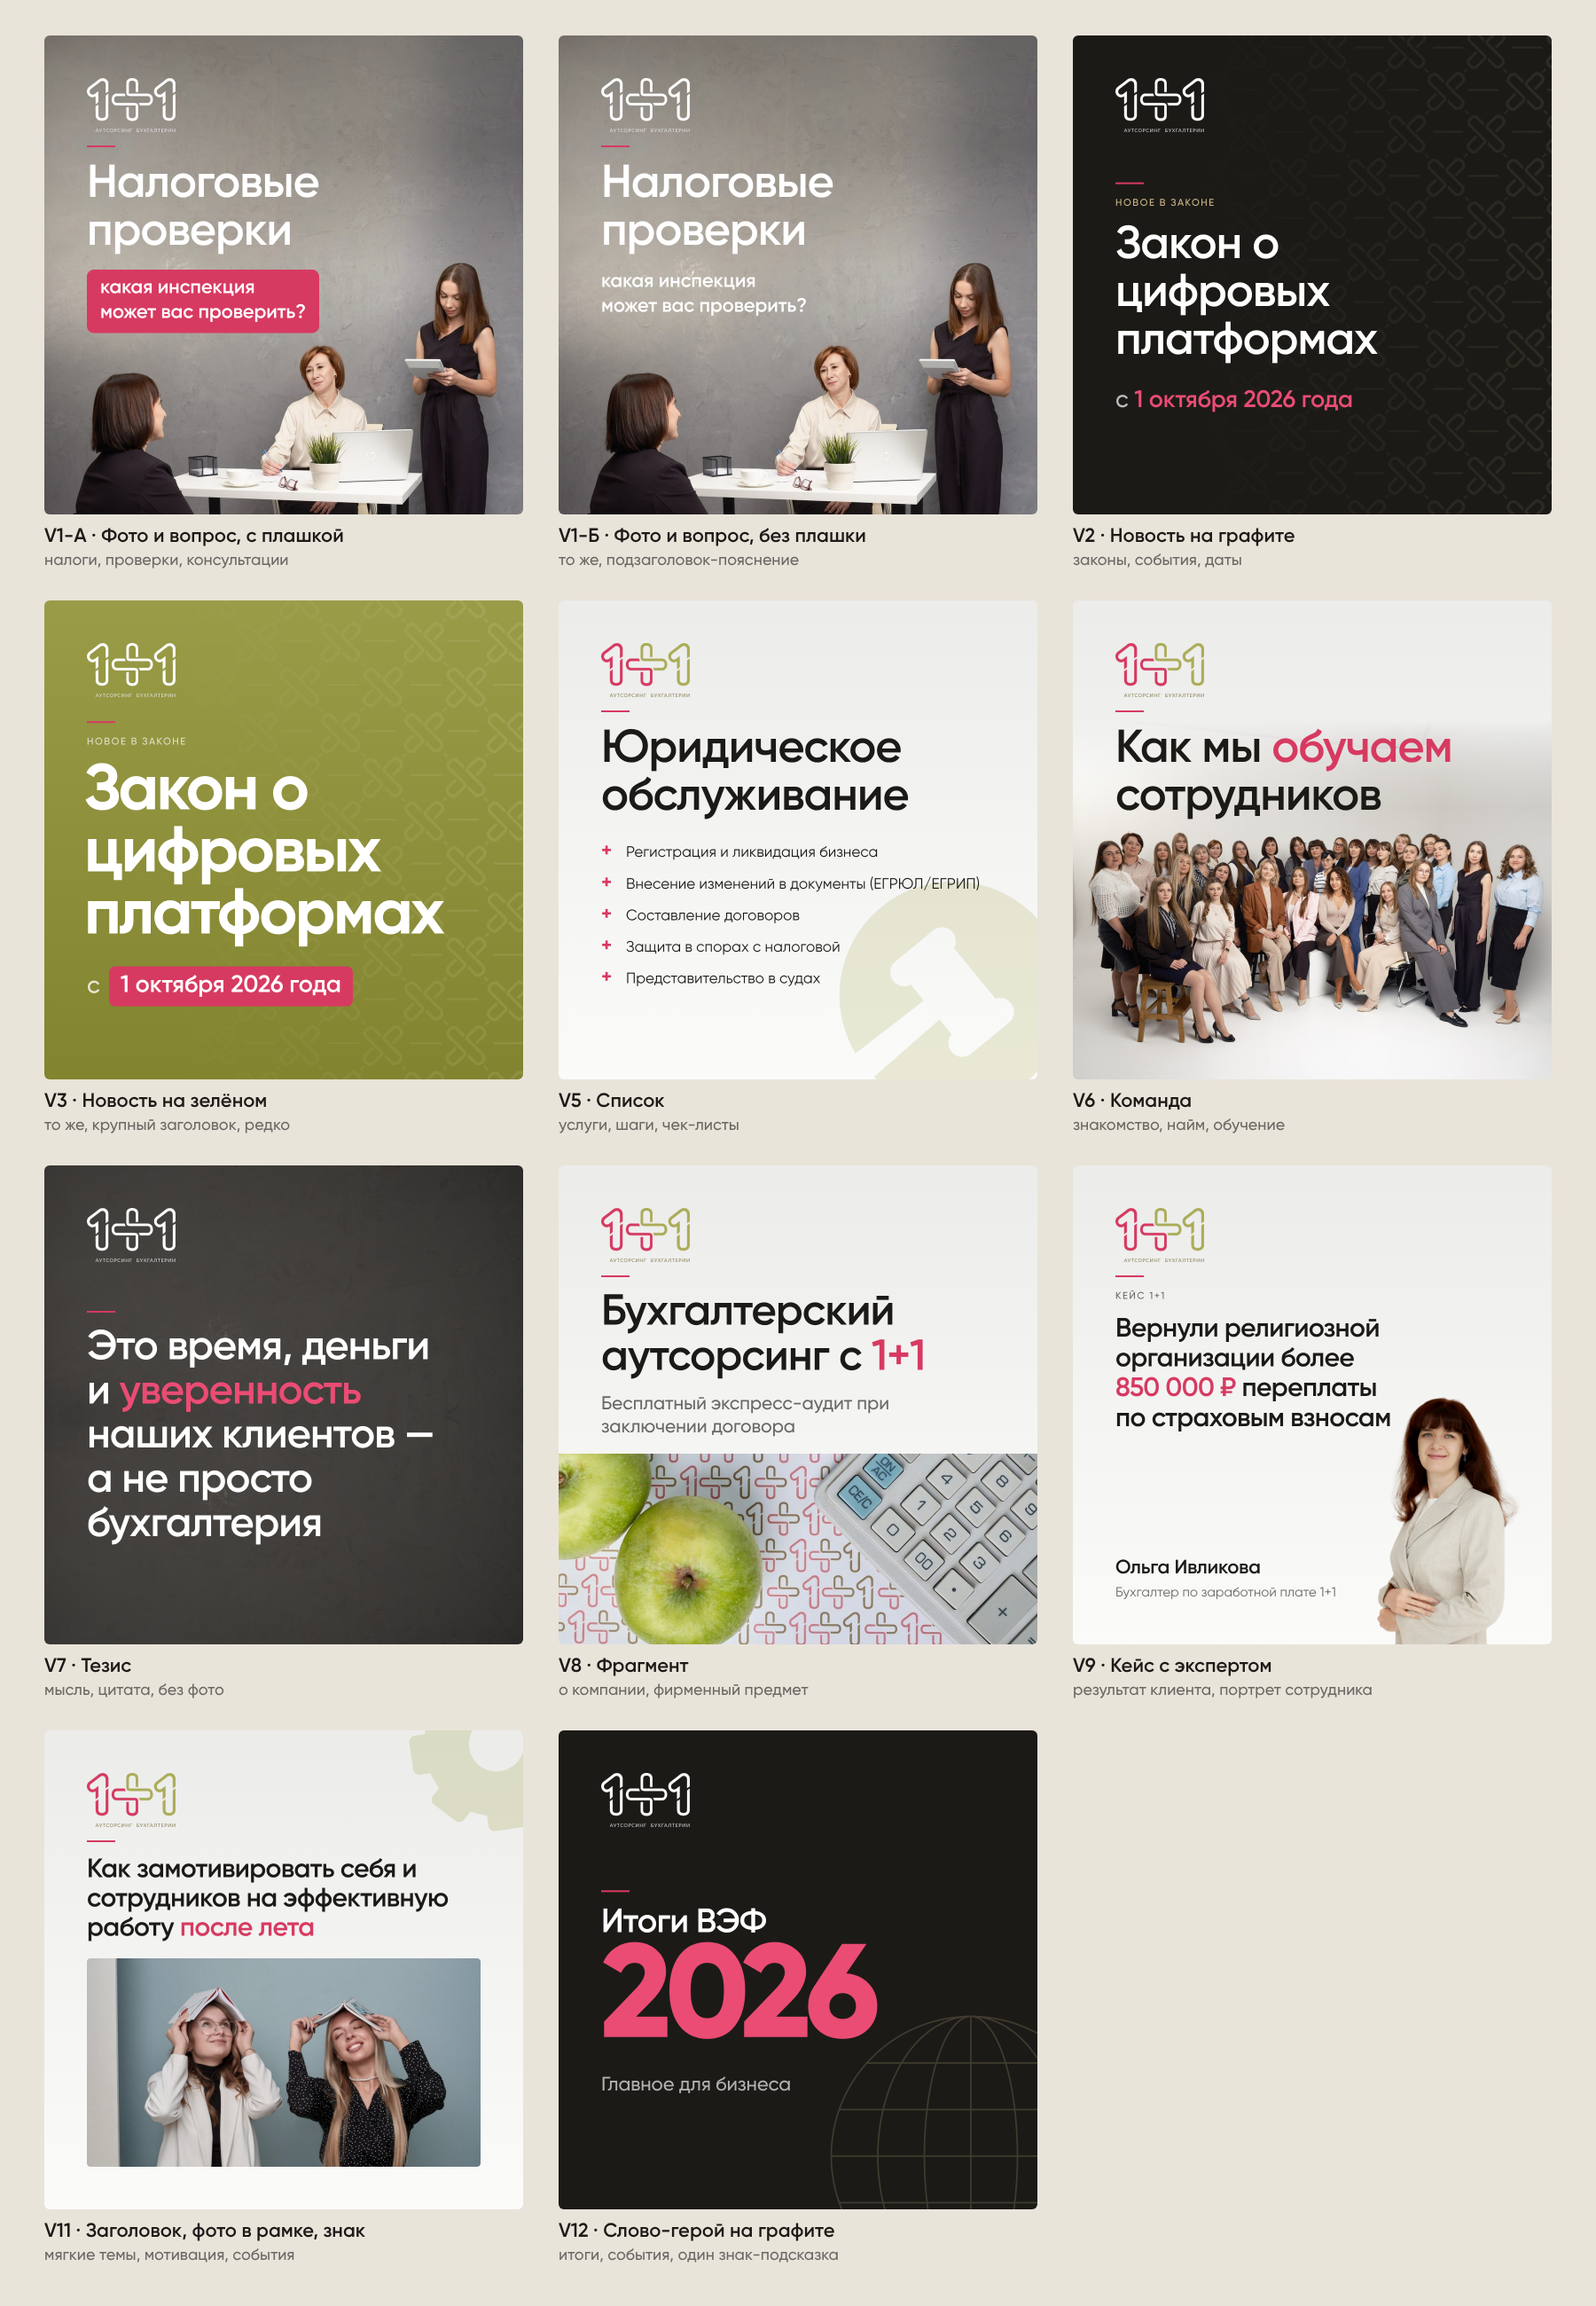
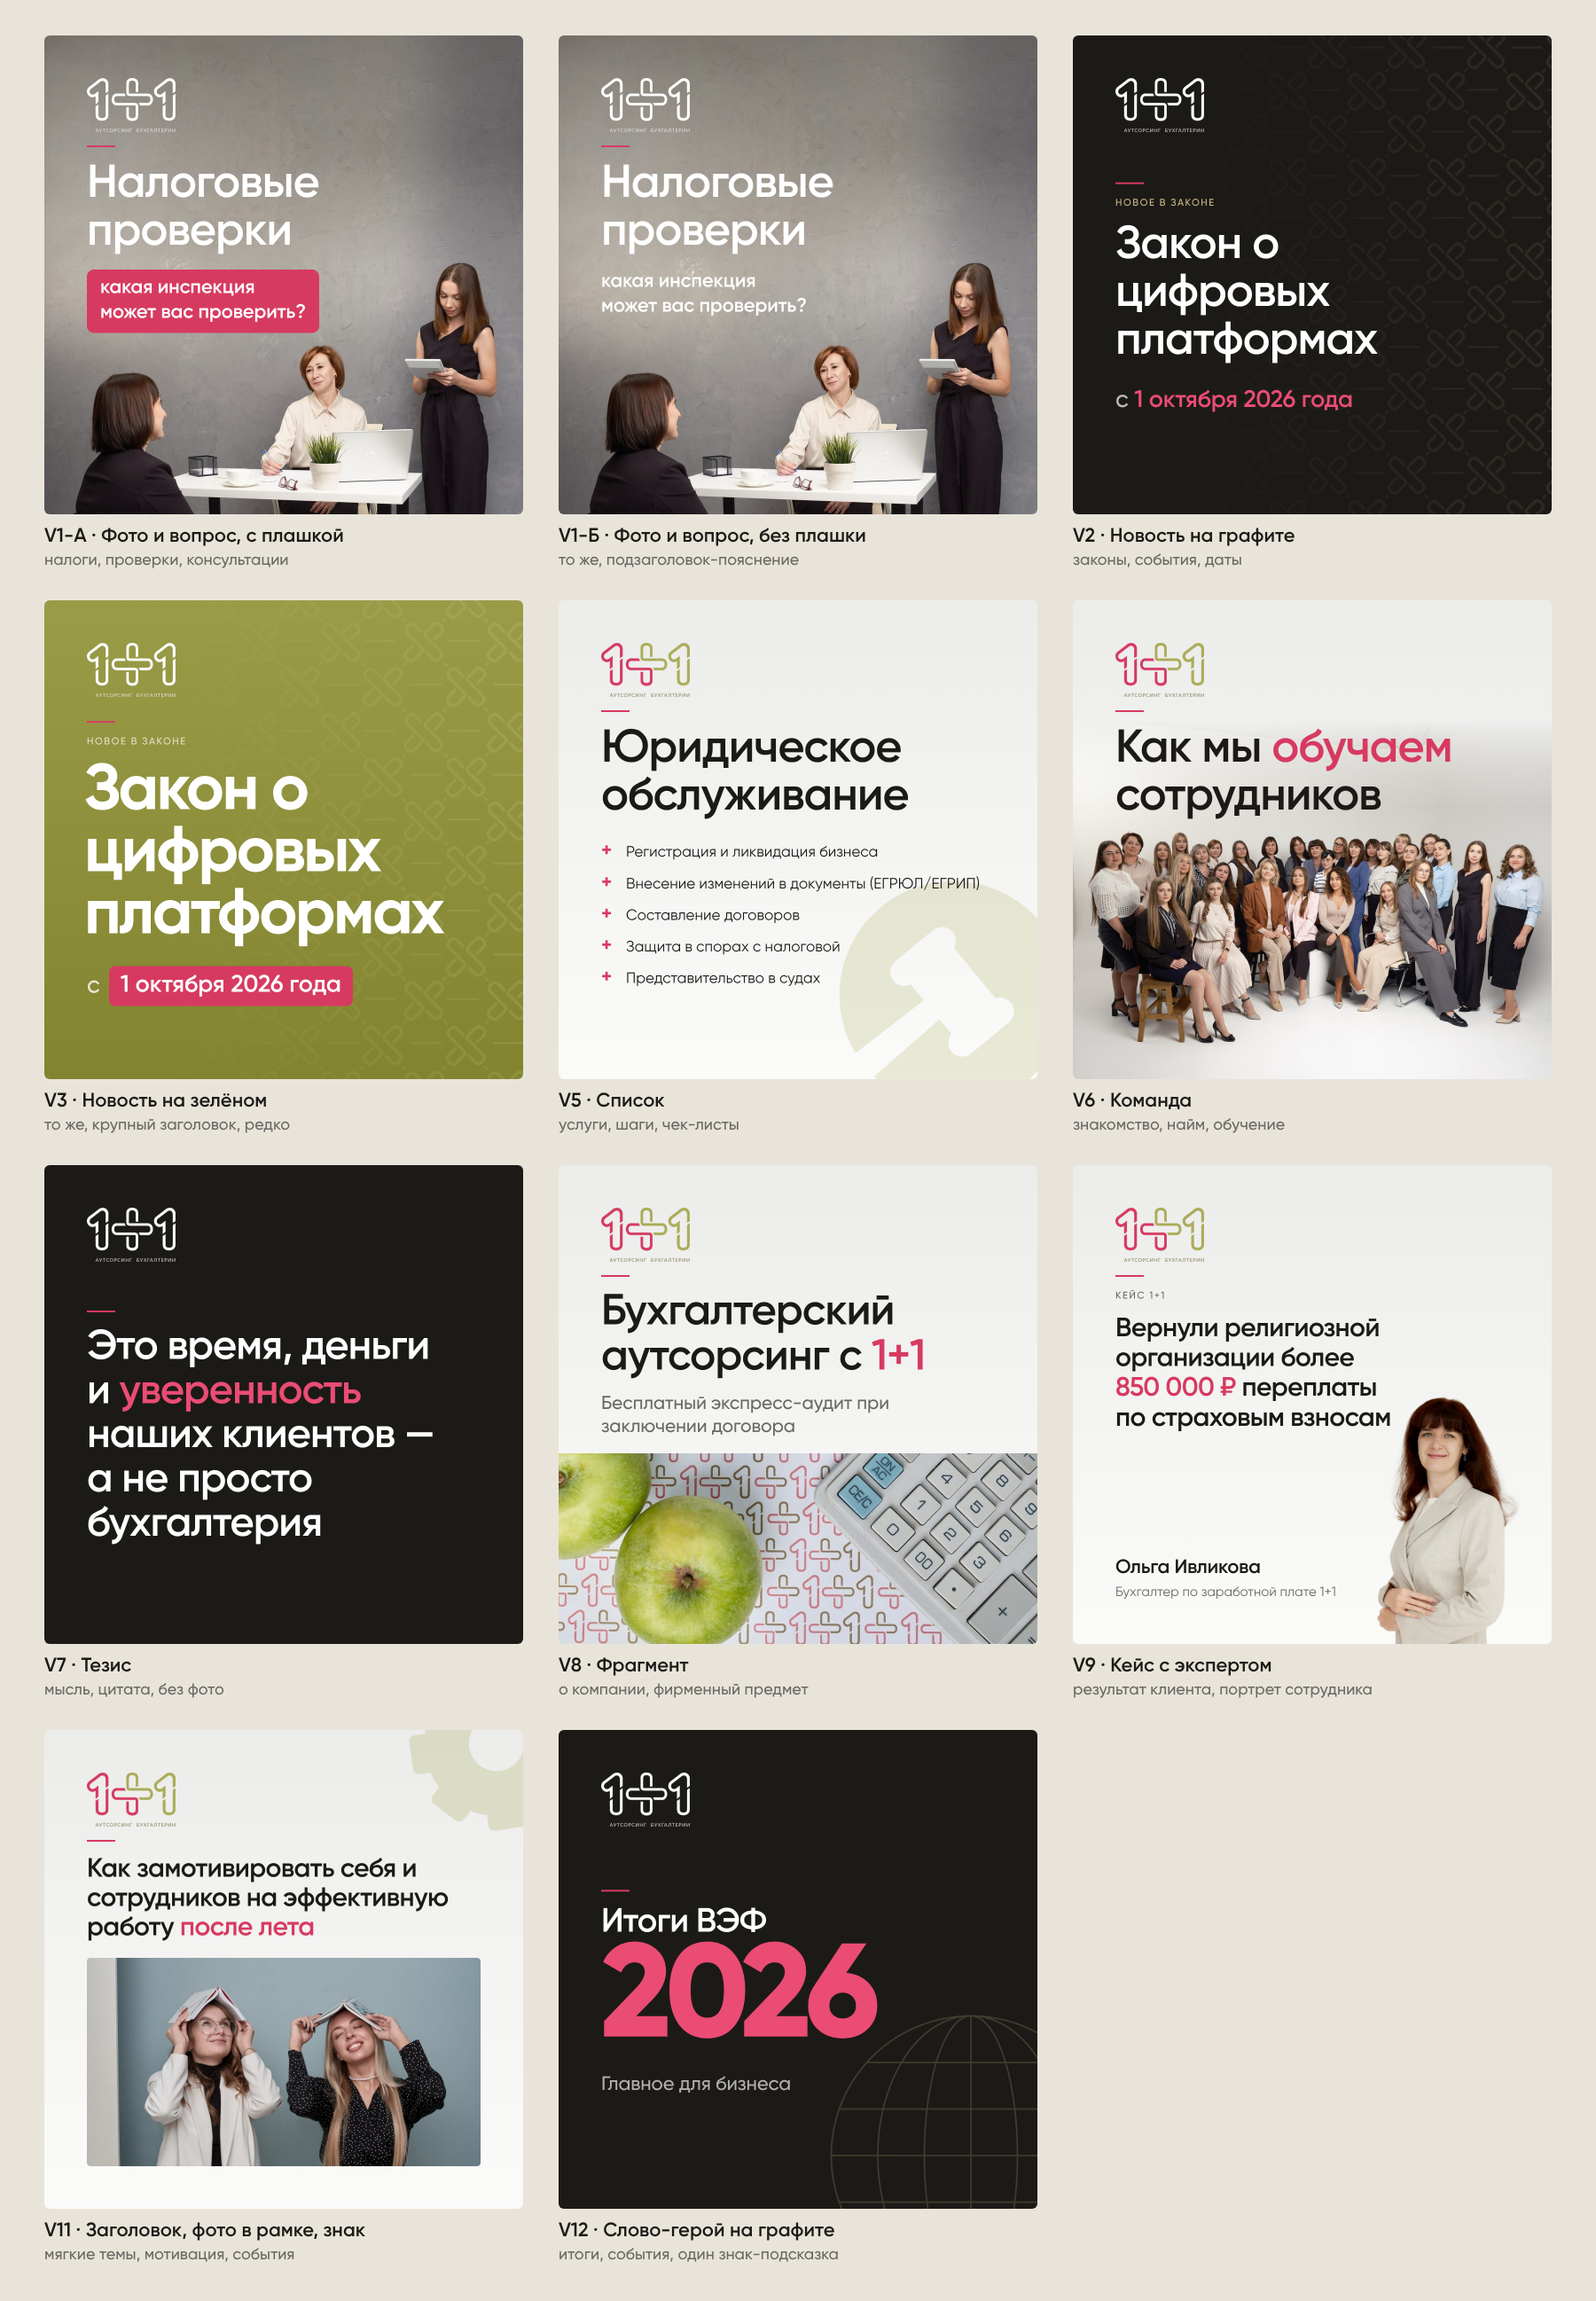
Apply variant A: V7 on plain graphite, dark layouts unified
Claude-Session: https://claude.ai/code/session_01VZ7Hrkur6jxoGp5f6QSiLJ

diff --git a/specimens/v7-thesis.html b/specimens/v7-thesis.html
@@ -1,7 +1,7 @@
 <!doctype html><html lang="ru"><head><meta charset="utf-8"><title>Тезис</title>
 <link rel="stylesheet" href="base.css">
 <style>
-.canvas{background:#262523 url(img/wall-dark.jpg) center/cover;color:#fff}
+.canvas{background:var(--graphite);color:#fff}
 .h-t{font-weight:600;font-size:94px;line-height:1.06;letter-spacing:-.022em}
 </style></head><body>
 <div class="canvas dark">

diff --git a/docs/layout-catalog.md b/docs/layout-catalog.md
@@ -87,10 +87,11 @@
 ## V7 · Тезис
 
 - **Когда:** мысль, цитата, тезис, длинная фраза без фото.
-- **Герой:** текст 98 px SemiBold белый, 4–6 строк. Допускает до 80 знаков.
-- **Акцент:** малиновая черта над текстом. Слова не красятся.
-- **Фон:** тёмная бетонная фактура (`specimens/img/wall-dark.jpg`: стена `concrete-0259`, свет выровнен,
-  яркость 0,6).
+- **Герой:** текст 94 px SemiBold белый, 4–6 строк, до 80 знаков; одно ключевое слово малиновое (`crimson-on-dark`).
+- **Акцент:** малиновая черта 64×4 над текстом и одно слово.
+- **Фон:** чистый `graphite`, без фактуры и узора. Тёмные макеты серии (V2, V7, V12) стоят на одном графите.
+
+---
 
 ## V8 · Фрагмент
 

diff --git a/docs/readme-v2.md b/docs/readme-v2.md
@@ -47,7 +47,7 @@
 `.text-top`, `.text-mid`, `.plate`). Claude Design берёт их, а не придумывает размеры заново.
 
 **Регистры по настроению:** светлый — рабочий, фото — доверие, графит — событие, зелёный — редкий акцент.
-Тёмные макеты различаются фактурой (бетонная стена V7, узор V2, чистый V12), светлые — наличием фото.
+Тёмные макеты стоят на одном графите и различаются приёмом: узор `pattern-2` (V2), знак (V12), чистый фон (V7). Светлые различаются наличием фото.
 
 ---
 
